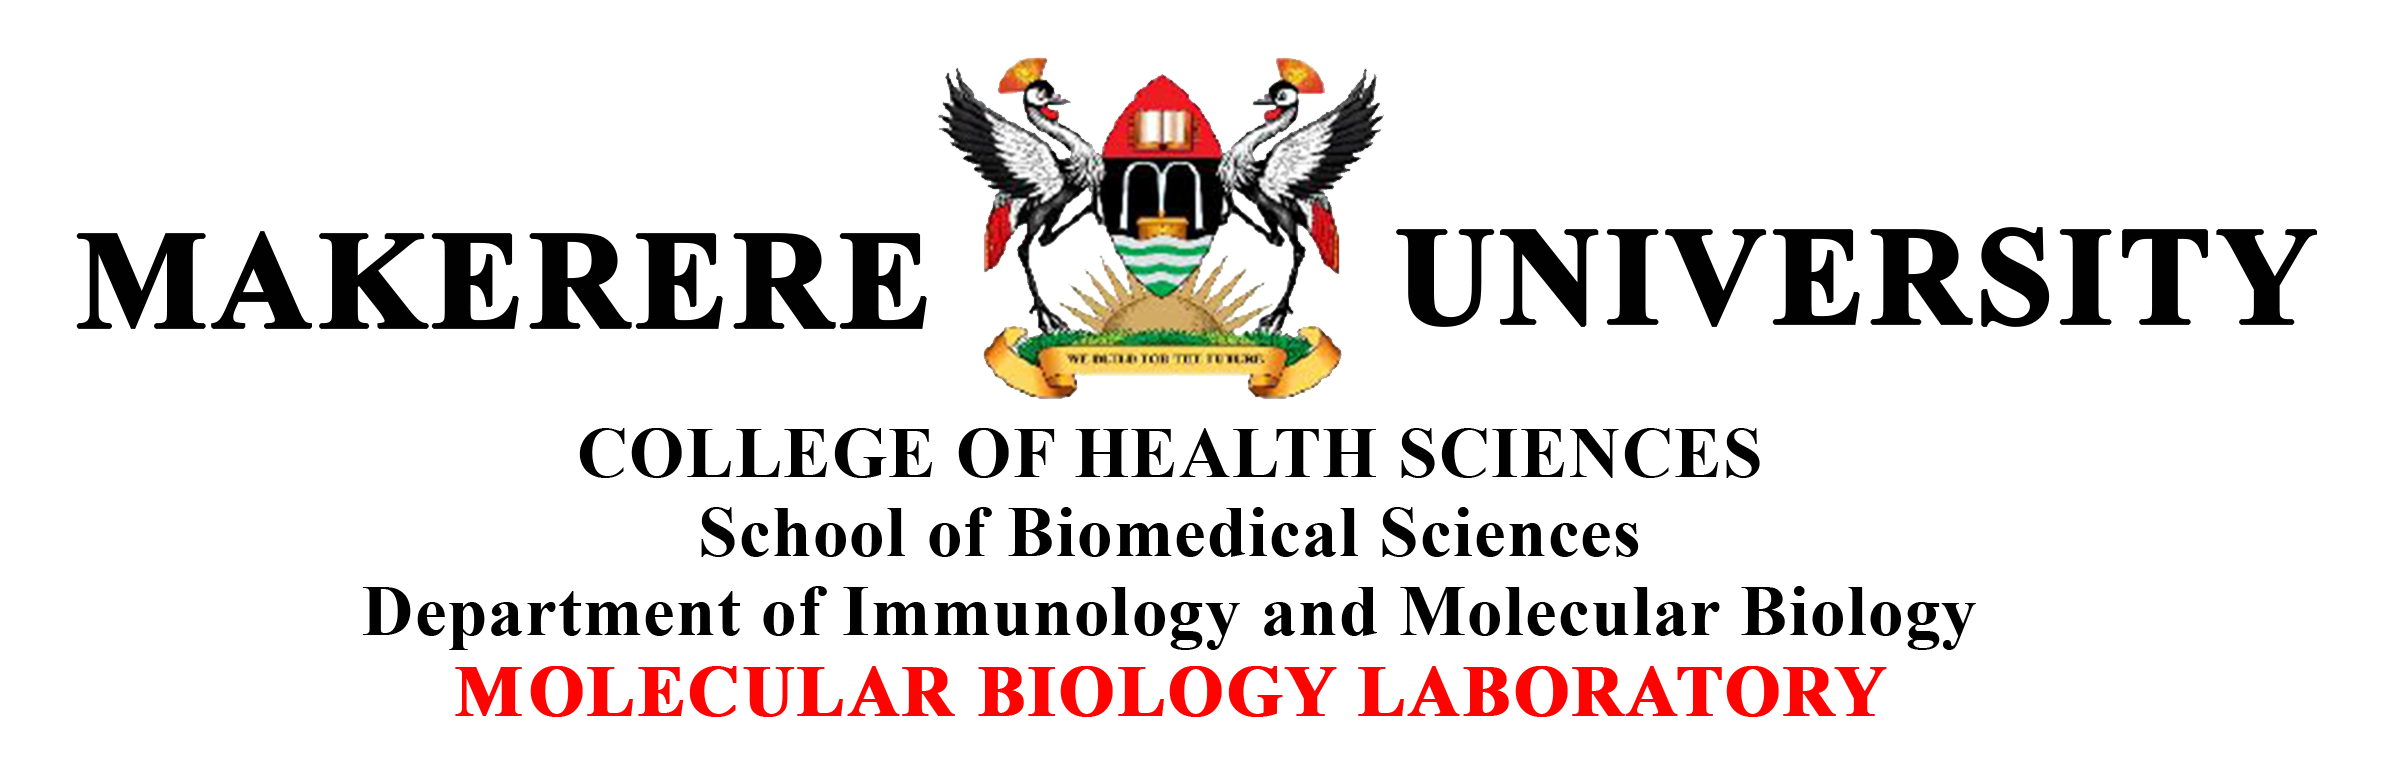
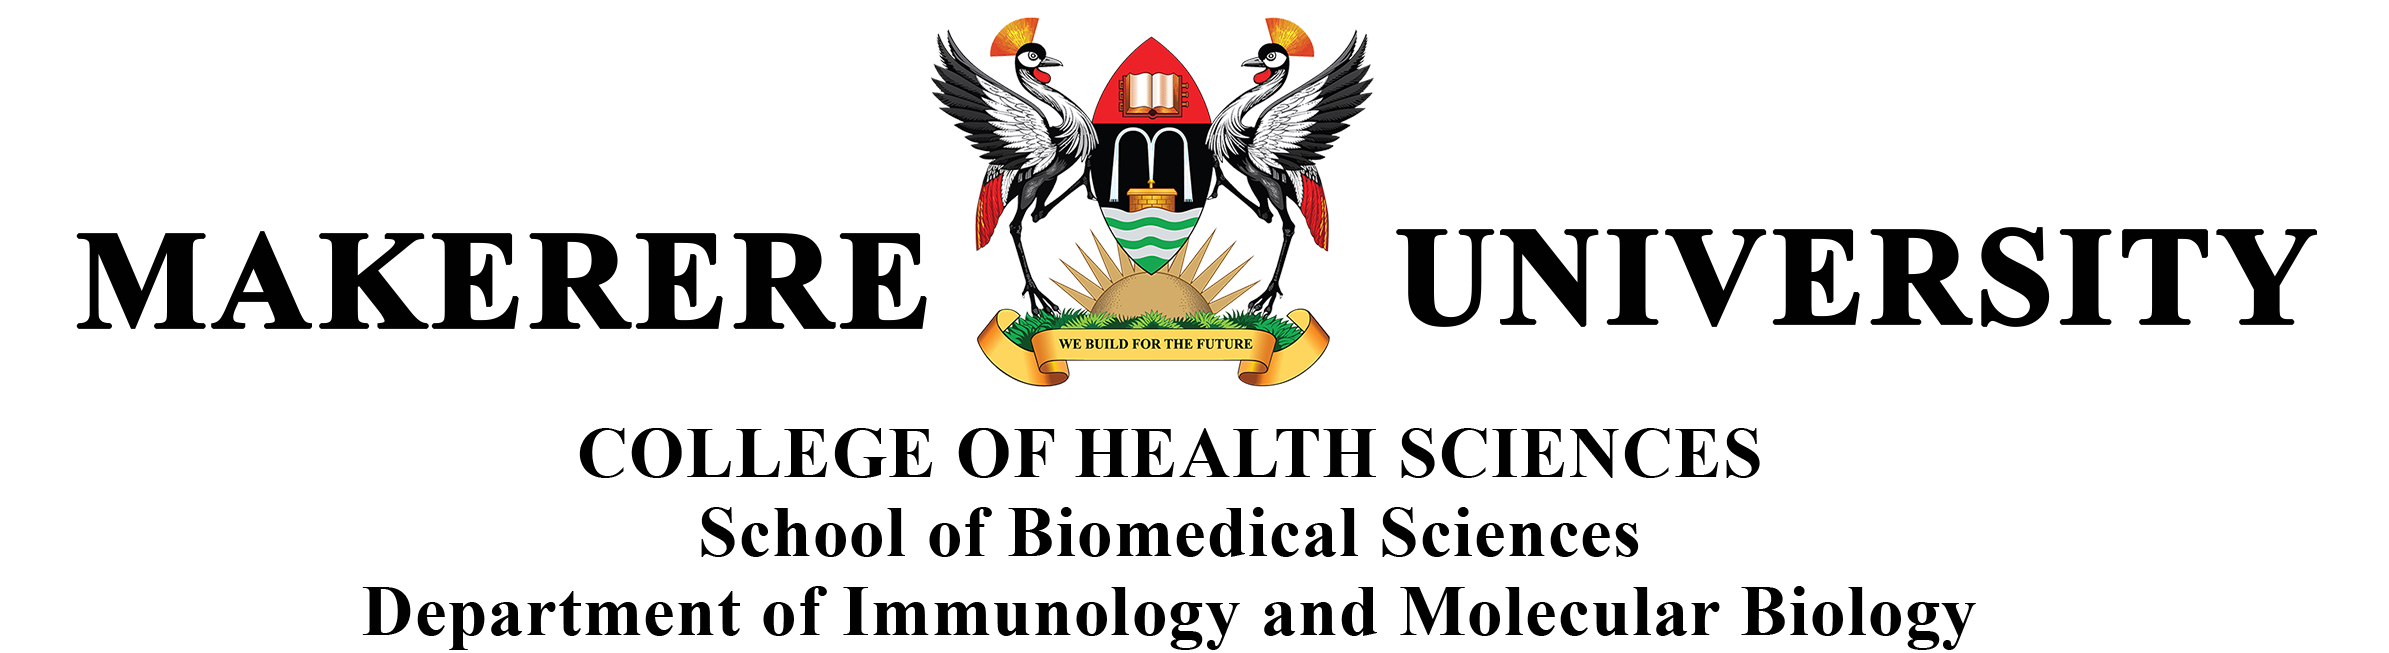
Report download

Changed region(s): [[0.031, 0.0306, 0.9912, 0.6126], [0.1549, 0.6432, 0.8363, 1.0]]

diff --git a/resources/views/reports/sample-management/downloadReport.blade.php b/resources/views/reports/sample-management/downloadReport.blade.php
@@ -60,13 +60,13 @@
 
 <body style="line-height:1.2; font-family:times;">
     {{-- REPORT HEADER --}}
-    <div class="row" style="line-height:0.9">
+    <div class="row">
         <img src="{{ asset('autolab-assets/images/headers/header.png') }}" alt="Makerere University Logo" width="100%"
             style="vertical-align:middle;"
             onerror="this.onerror=null;this.src='{{ asset('images/photos/20220130105722.jpg') }}';">
-        {{-- <h5 style="text-align:center; font-family:times;">{{Str::upper(auth()->user()->laboratory->laboratory_name)}}</h5> --}}
-        <hr style="height:1px; width:100%; color:#6C757D;">
-        <h6 style="text-align:center; font-family:times; color:red"><b>RESULT REPORT</b></h6>
+        <h4 style="text-align:center; font-family:times; color:crimson">{{Str::upper(auth()->user()->laboratory->laboratory_name)}}</h4>
+        <hr style="height:0.6px; width:100%; color:#6C757D;">
+        <h5 style="text-align:center; font-family:times;"><b>@if($testResult->status !='Approved') <span style="color: crimson">PRELIMINARY</span> @endif RESULT REPORT</b> </h5>
     </div>
     {{-- PARTICIPANT AND REQUESTER --}}
     <div style="font-size:16px; margin-top:0px;">
@@ -89,12 +89,12 @@
                 <td style="width:45%">
                     <div>
                         <b>REQUESTER</b> <br>
-                        <b>Name:</b> {{ $testResult->sample->requester->name }}<br>
-                        <b>Telephone:</b> {{ $testResult->sample->requester->contact }} <br>
-                        <b>Email:</b> {{ $testResult->sample->requester->email }} <br>
-                        <b>Date Requested:</b>{{ date('d-m-Y', strtotime($testResult->sample->date_requested)) }}<br>
+                        <b>Name:</b> {{ $testResult->sample->requester->name??'N/A' }}<br>
+                        <b>Telephone:</b> {{ $testResult->sample->requester->contact??'N/A' }} <br>
+                        <b>Email:</b> {{ $testResult->sample->requester->email??'N/A' }} <br>
+                        <b>Date Requested:</b>{{ date('d-m-Y', strtotime($testResult->sample->date_requested??'N/A')) }}<br>
                         <b>Organisation:</b>
-                        {{ $testResult->sample->requester->facility->name }}
+                        {{ $testResult->sample->requester->facility->name??'N/A' }}
                     </div>
                 </td>
             </tr>
@@ -105,26 +105,26 @@
             <tbody>
                 {{-- SAMPLE AND TEST DETAILS --}}
                 <tr class="btop">
-                    <td class="btop"><strong>Test requested:</strong>{{ $testResult->test->name }}</td>
+                    <td class="btop"><strong>Test requested:</strong>{{ $testResult->test->name??'N/A' }}</td>
                     <td class="btop" style="text-align: right"><strong>Sample
-                            Type:</strong>{{ $testResult->sample->sampleType->type }}</td>
+                            Type:</strong>{{ $testResult->sample->sampleType->type??'N/A' }}</td>
                 </tr>
             </tbody>
         </table>
-        <hr style="height:1px; width:100%; color:#6C757D;">
         <table class="table dt-responsive nowrap" width="100%">
             <tbody>
-                <tr>
+                <tr style="border-bottom: 0.5px solid rgb(f, f, f); margin-top: 10px; margin-bottom: 10px">
                     <td class="btop"><strong>Collection Date:</strong> <br>
-                        {{ date('d-m-Y H:i', strtotime($testResult->sample->date_collected)) }}</td>
+                        {{ date('d-m-Y H:i', strtotime($testResult->sample->date_collected??'N/A')) }}</td>
                     <td class="btop" style="text-align: center"><strong>Date received:</strong> <br>
-                        {{ date('d-m-Y H:i', strtotime($testResult->sample->sampleReception->date_delivered)) }}
+                        {{ date('d-m-Y H:i', strtotime($testResult->sample->sampleReception->date_delivered??'N/A')) }}
                     </td>
                     <td class="btop" style="text-align: right"><strong>Result Date:</strong>
                         <br>{{ $testResult->created_at }}</td>
                 </tr>
             </tbody>
         </table>
+        <hr style="height:0.6px; width:100%; color:#6C757D; display:none">
         <table class="table dt-responsive nowrap" width="100%">
             <tbody>
                 {{-- RESULT AND BARCODE --}}
@@ -142,10 +142,11 @@
                 <br>
             </tbody>
         </table>
+          
         <table class="table dt-responsive nowrap" width="100%">
             <tbody>
                 {{-- COMMENT --}}
-                <tr style="border-bottom: 1px solid rgb(f, f, f); margin-top: 20px">
+                <tr style="border-bottom: 0.5px solid rgb(f, f, f); margin-top: 20px">
                     <td colspan="3" class="btop" style="width:80%">
                         <div
                             style="display:block; border: 1px solid rgb(221, 213, 213); border-radius: 4px; padding-right:10px; padding-left:10px; line-height:1">
@@ -182,8 +183,8 @@
                         _____________________
                         <br>
                         <strong>Performed By: </strong><br>
-                        @if ($testResult->performer->signature)
-                            <img src="{{ asset('storage/' . $testResult->performer->signature) }}" alt=""
+                        @if ($testResult->performer->signature??null)
+                            <img src="{{ asset('storage/' . $testResult->performer->signature??'') }}" alt=""
                                 height="5%" width="30%"><br>
                         @endif
 
@@ -193,8 +194,8 @@
                         _____________________
                         <br>
                         <strong>Reviewed By: </strong><br>
-                        @if ($testResult->reviewer->signature)
-                            <img src="{{ asset('storage/' . $testResult->reviewer->signature) }}" alt=""
+                        @if ($testResult->reviewer->signature??null)
+                            <img src="{{ asset('storage/' . $testResult->reviewer->signature??'') }}" alt=""
                                 height="5%" width="30%"><br>
                         @endif
                         {{ $testResult->reviewer ? $testResult->reviewer->fullName : 'N/A' }}
@@ -203,8 +204,8 @@
                         _____________________
                         <br>
                         <strong>Approved by: </strong> <br>
-                        @if ($testResult->approver->signature)
-                            <img src="{{ asset('storage/' . $testResult->approver->signature) }}" alt=""
+                        @if ($testResult->approver->signature??null)
+                            <img src="{{ asset('storage/' . $testResult->approver->signature??'') }}" alt=""
                                 height="5%" width="30%"><br>
                         @endif
                         {{ $testResult->approver ? $testResult->approver->fullName : 'N/A' }}
@@ -228,7 +229,7 @@
                     </td>
                     <td>
                         <p style="text-align:center; font-size:10px; color:#4CAF50"> Printed
-                            {{ $testResult->download_count }} time(s) [{{ $testResult->tracker }}]</font>
+                            {{ $testResult->download_count }} time(s) @if ($testResult->tracker!='')[{{ $testResult->tracker }}] @endif</font>
                         </p>
                     </td>
                 </tr>
